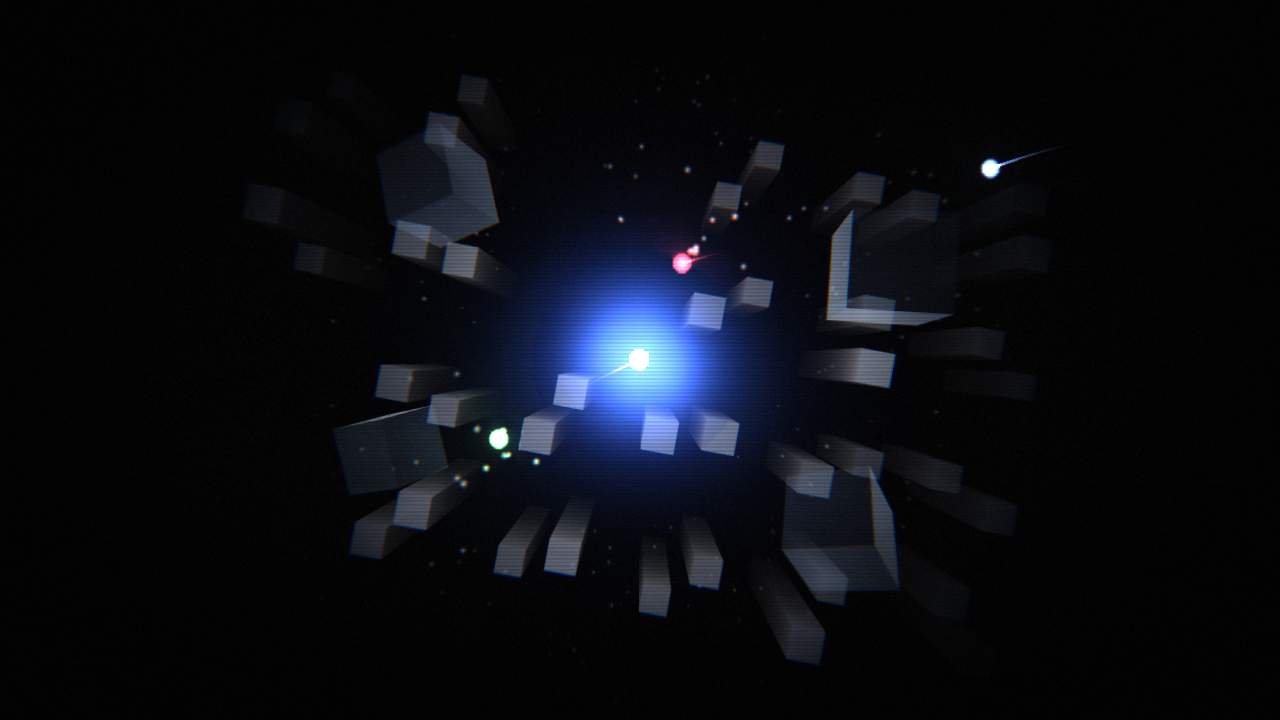
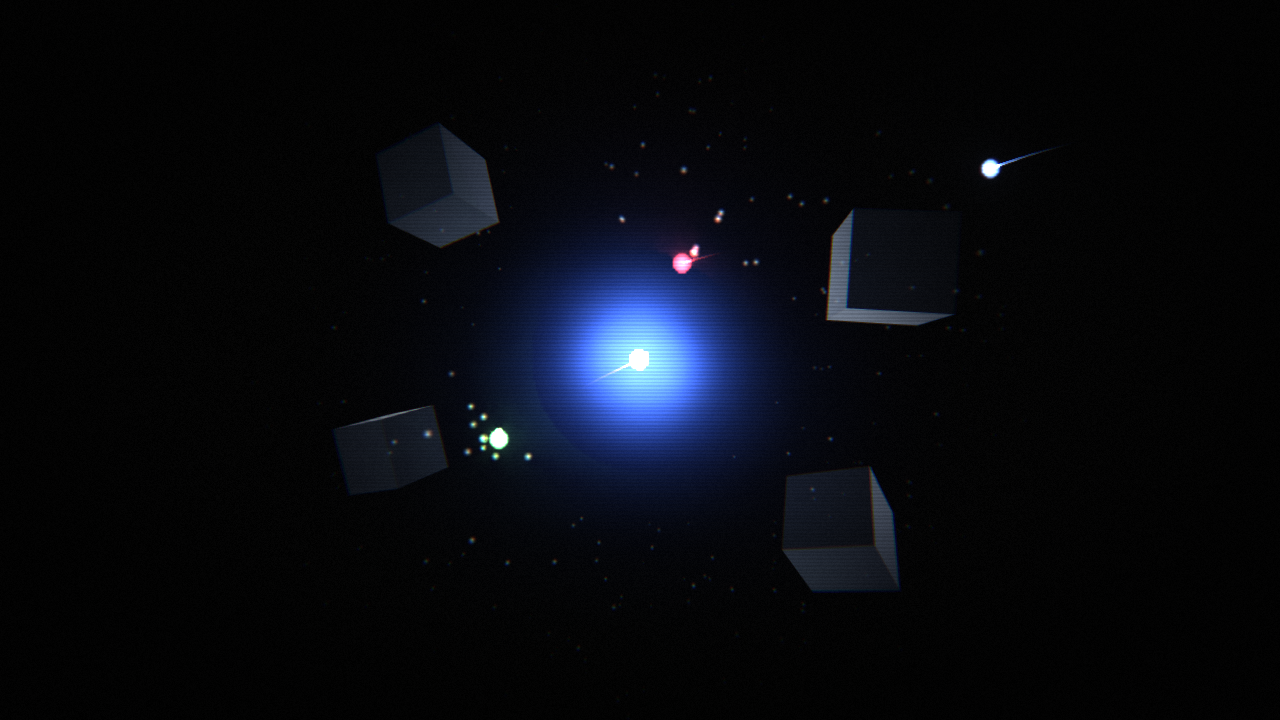
refactor(docs): remove boot-void floor bars

diff --git a/apps/docs/lib/examples-source.generated.ts b/apps/docs/lib/examples-source.generated.ts
@@ -1760,7 +1760,7 @@ export const exampleSources = {
       {
         "path": "pipeline.ts",
         "language": "typescript",
-        "content": "import {\n  bundle,\n  draw,\n  effect,\n  geometry,\n  sampler,\n  target,\n  type Bundle,\n  type Frame,\n  type Gpu,\n  type Surface,\n  type Target,\n} from 'vgpu';\nimport { box } from 'vgpu/scene';\n\nimport atmosphereWgsl from './atmosphere.wgsl';\nimport {\n  encodeRadiance,\n  setRadianceScene,\n  setRadianceTime,\n  type Radiance,\n} from './radiance';\nimport blurWgsl from './blur.wgsl';\nimport brightWgsl from './bright.wgsl';\nimport fieldWgsl from './field.wgsl';\nimport glassWgsl from './glass.wgsl';\nimport nebulaWgsl from './nebula.wgsl';\nimport postWgsl from './post.wgsl';\nimport starsWgsl from './stars.wgsl';\nimport trailsWgsl from './trails.wgsl';\n\ntype Output = Surface | Target;\n\nconst CLEAR = [0, 0, 0, 1] as const;\nconst SCENE_FORMAT = 'rgba16float' as const;\n// 6×4 cluster cells, two bars per cell. The layout lives in field.wgsl.\nexport const BAR_INSTANCES = 48;\nexport const GLASS_INSTANCES = 4;\n// 4 trails × (21 segments + 1 head halo).\nexport const TRAIL_INSTANCES = 88;\nexport const DUST_COUNT = 224;\n\nconst BLURS = [\n  { direction: [1, 0], radius: 1 },\n  { direction: [0, 1], radius: 1 },\n  { direction: [1, 0], radius: 2.4 },\n  { direction: [0, 1], radius: 2.4 },\n] as const;\n\nexport function createEffects(gpu: Gpu) {\n  const samp = sampler(gpu, { minFilter: 'linear', magFilter: 'linear' });\n  const cube = geometry(gpu, box({ size: 1 }));\n  const additive = {\n    color: { src: 'src-alpha', dst: 'one' },\n    alpha: { src: 'one', dst: 'one' },\n  } as const;\n  return {\n    nebula: effect(gpu, nebulaWgsl),\n    stars: draw(gpu, {\n      shader: starsWgsl,\n      vertices: 6,\n      instances: DUST_COUNT,\n      blend: additive,\n      label: 'boot-void-stars',\n    }),\n    // Alpha-blended painter's-order 3D: the source relied on draw order, so a\n    // depth buffer would change the look rather than preserve it.\n    bars: draw(gpu, {\n      shader: fieldWgsl,\n      geometry: cube,\n      instances: BAR_INSTANCES,\n      blend: 'alpha',\n      cull: 'back',\n      frontFace: 'cw',\n      label: 'boot-void-bars',\n    }),\n    glass: draw(gpu, {\n      shader: glassWgsl,\n      geometry: cube,\n      instances: GLASS_INSTANCES,\n      blend: 'alpha',\n      cull: 'back',\n      frontFace: 'cw',\n      label: 'boot-void-glass',\n    }),\n    atmosphere: effect(gpu, atmosphereWgsl, { set: { samp } }),\n    trails: draw(gpu, {\n      shader: trailsWgsl,\n      vertices: 6,\n      instances: TRAIL_INSTANCES,\n      blend: additive,\n      label: 'boot-void-trails',\n    }),\n    bright: effect(gpu, brightWgsl, { set: { samp } }),\n    blur: BLURS.map((options) => effect(gpu, blurWgsl, { set: { samp, blur: options } })),\n    post: effect(gpu, postWgsl, { set: { samp, params: { pointer: [0, 0] } } }),\n  };\n}\n\nexport type Effects = ReturnType<typeof createEffects>;\n\nexport function createTargets(gpu: Gpu, size: readonly [number, number]) {\n  const owned: Target[] = [];\n  const own = (created: Target) => {\n    owned.push(created);\n    return created;\n  };\n  try {\n    const bloomHeight = Math.min(360, size[1]);\n    const bloomSize: [number, number] = [\n      Math.max(1, Math.round((bloomHeight * size[0]) / size[1])),\n      bloomHeight,\n    ];\n    return {\n      // 4× MSAA: passes resolve into a sampleable single-sample color.\n      scene: own(target(gpu, { size, format: SCENE_FORMAT, msaa: true })),\n      composite: own(target(gpu, { size, format: SCENE_FORMAT })),\n      bloom: [\n        own(target(gpu, { size: bloomSize, format: SCENE_FORMAT })),\n        own(target(gpu, { size: bloomSize, format: SCENE_FORMAT })),\n      ] as const,\n    };\n  } catch (error) {\n    for (const created of owned.reverse()) destroy(created);\n    throw error;\n  }\n}\n\nexport type Targets = ReturnType<typeof createTargets>;\n\nexport function destroyTargets(targets: Targets): void {\n  destroy(targets.bloom[1]);\n  destroy(targets.bloom[0]);\n  destroy(targets.composite);\n  destroy(targets.scene);\n}\n\nfunction destroy(color: Target | undefined): void {\n  (color as { destroy?: () => void } | undefined)?.destroy?.();\n}\n\nexport function setBindings(effects: Effects, targets: Targets, radiance: Radiance): void {\n  const aspect = targets.scene.size[0] / targets.scene.size[1];\n  effects.nebula.set({ params: { aspect } });\n  effects.stars.set({ params: { aspect } });\n  effects.bars.set({ params: { aspect } });\n  effects.glass.set({ params: { aspect } });\n  effects.atmosphere.set({ src: targets.scene, params: { aspect } });\n  effects.trails.set({ params: { aspect } });\n  effects.bright.set({ src: targets.composite });\n  effects.blur.forEach((pass, i) =>\n    pass.set({\n      src: targets.bloom[i % 2],\n      blur: { texelSize: targets.bloom[i % 2].texelSize },\n    }),\n  );\n  effects.post.set({\n    src: targets.composite,\n    bloom: targets.bloom[0],\n    radiance: radiance.irradiance,\n    params: { aspect },\n  });\n  setRadianceScene(radiance, targets.scene);\n}\n\nexport function setTime(effects: Effects, radiance: Radiance, time: number): void {\n  const params = { params: { time } };\n  effects.nebula.set(params);\n  effects.stars.set(params);\n  effects.bars.set(params);\n  effects.glass.set(params);\n  effects.atmosphere.set(params);\n  effects.trails.set(params);\n  effects.post.set(params);\n  setRadianceTime(radiance, time);\n}\n\nexport function setPointer(effects: Effects, pointer: readonly [number, number]): void {\n  effects.post.set({ params: { pointer } });\n}\n\nexport async function prewarm(effects: Effects, targets: Targets, output: Output): Promise<void> {\n  await Promise.all([\n    effects.nebula.compile(targets.scene),\n    effects.stars.compile(targets.scene),\n    effects.bars.compile(targets.scene),\n    effects.glass.compile(targets.scene),\n    effects.atmosphere.compile(targets.composite),\n    effects.trails.compile(targets.composite),\n    effects.bright.compile(targets.bloom[0]),\n    ...effects.blur.map((pass, i) => pass.compile(targets.bloom[(i + 1) % 2])),\n    effects.post.compile({ colors: [output.format] }),\n  ]);\n}\n\n// Bundles freeze the render signature, not the target, so they survive resizes.\nexport function recordScene(gpu: Gpu, effects: Effects): Bundle {\n  return bundle(\n    gpu,\n    { target: { colors: [SCENE_FORMAT], sampleCount: 4 }, label: 'boot-void-scene' },\n    (pass) => {\n      pass.draw(effects.nebula);\n      pass.draw(effects.stars);\n      pass.draw(effects.bars);\n      pass.draw(effects.glass);\n    },\n  );\n}\n\nexport function renderChain(\n  frame: Frame,\n  effects: Effects,\n  targets: Targets,\n  output: Output,\n  scene: Bundle,\n  radiance: Radiance,\n): void {\n  frame.pass({ target: targets.scene, clear: CLEAR }, (pass) => pass.bundles(scene));\n  encodeRadiance(frame, radiance);\n  frame.pass({ target: targets.composite, clear: CLEAR }, (pass) => {\n    pass.draw(effects.atmosphere);\n    pass.draw(effects.trails);\n  });\n  frame.pass({ target: targets.bloom[0], clear: CLEAR }, (pass) => pass.draw(effects.bright));\n  effects.blur.forEach((pass, i) => {\n    frame.pass({ target: targets.bloom[(i + 1) % 2], clear: CLEAR }, (framePass) =>\n      framePass.draw(pass),\n    );\n  });\n  frame.pass({ target: output, clear: CLEAR }, (pass) => pass.draw(effects.post));\n}\n"
+        "content": "import {\n  bundle,\n  draw,\n  effect,\n  geometry,\n  sampler,\n  target,\n  type Bundle,\n  type Frame,\n  type Gpu,\n  type Surface,\n  type Target,\n} from 'vgpu';\nimport { box } from 'vgpu/scene';\n\nimport atmosphereWgsl from './atmosphere.wgsl';\nimport {\n  encodeRadiance,\n  setRadianceScene,\n  setRadianceTime,\n  type Radiance,\n} from './radiance';\nimport blurWgsl from './blur.wgsl';\nimport brightWgsl from './bright.wgsl';\nimport glassWgsl from './glass.wgsl';\nimport nebulaWgsl from './nebula.wgsl';\nimport postWgsl from './post.wgsl';\nimport starsWgsl from './stars.wgsl';\nimport trailsWgsl from './trails.wgsl';\n\ntype Output = Surface | Target;\n\nconst CLEAR = [0, 0, 0, 1] as const;\nconst SCENE_FORMAT = 'rgba16float' as const;\nexport const GLASS_INSTANCES = 4;\n// 4 trails × (21 segments + 1 head halo).\nexport const TRAIL_INSTANCES = 88;\nexport const DUST_COUNT = 224;\n\nconst BLURS = [\n  { direction: [1, 0], radius: 1 },\n  { direction: [0, 1], radius: 1 },\n  { direction: [1, 0], radius: 2.4 },\n  { direction: [0, 1], radius: 2.4 },\n] as const;\n\nexport function createEffects(gpu: Gpu) {\n  const samp = sampler(gpu, { minFilter: 'linear', magFilter: 'linear' });\n  const cube = geometry(gpu, box({ size: 1 }));\n  const additive = {\n    color: { src: 'src-alpha', dst: 'one' },\n    alpha: { src: 'one', dst: 'one' },\n  } as const;\n  return {\n    nebula: effect(gpu, nebulaWgsl),\n    stars: draw(gpu, {\n      shader: starsWgsl,\n      vertices: 6,\n      instances: DUST_COUNT,\n      blend: additive,\n      label: 'boot-void-stars',\n    }),\n    glass: draw(gpu, {\n      shader: glassWgsl,\n      geometry: cube,\n      instances: GLASS_INSTANCES,\n      blend: 'alpha',\n      cull: 'back',\n      frontFace: 'cw',\n      label: 'boot-void-glass',\n    }),\n    atmosphere: effect(gpu, atmosphereWgsl, { set: { samp } }),\n    trails: draw(gpu, {\n      shader: trailsWgsl,\n      vertices: 6,\n      instances: TRAIL_INSTANCES,\n      blend: additive,\n      label: 'boot-void-trails',\n    }),\n    bright: effect(gpu, brightWgsl, { set: { samp } }),\n    blur: BLURS.map((options) => effect(gpu, blurWgsl, { set: { samp, blur: options } })),\n    post: effect(gpu, postWgsl, { set: { samp, params: { pointer: [0, 0] } } }),\n  };\n}\n\nexport type Effects = ReturnType<typeof createEffects>;\n\nexport function createTargets(gpu: Gpu, size: readonly [number, number]) {\n  const owned: Target[] = [];\n  const own = (created: Target) => {\n    owned.push(created);\n    return created;\n  };\n  try {\n    const bloomHeight = Math.min(360, size[1]);\n    const bloomSize: [number, number] = [\n      Math.max(1, Math.round((bloomHeight * size[0]) / size[1])),\n      bloomHeight,\n    ];\n    return {\n      // 4× MSAA: passes resolve into a sampleable single-sample color.\n      scene: own(target(gpu, { size, format: SCENE_FORMAT, msaa: true })),\n      composite: own(target(gpu, { size, format: SCENE_FORMAT })),\n      bloom: [\n        own(target(gpu, { size: bloomSize, format: SCENE_FORMAT })),\n        own(target(gpu, { size: bloomSize, format: SCENE_FORMAT })),\n      ] as const,\n    };\n  } catch (error) {\n    for (const created of owned.reverse()) destroy(created);\n    throw error;\n  }\n}\n\nexport type Targets = ReturnType<typeof createTargets>;\n\nexport function destroyTargets(targets: Targets): void {\n  destroy(targets.bloom[1]);\n  destroy(targets.bloom[0]);\n  destroy(targets.composite);\n  destroy(targets.scene);\n}\n\nfunction destroy(color: Target | undefined): void {\n  (color as { destroy?: () => void } | undefined)?.destroy?.();\n}\n\nexport function setBindings(effects: Effects, targets: Targets, radiance: Radiance): void {\n  const aspect = targets.scene.size[0] / targets.scene.size[1];\n  effects.nebula.set({ params: { aspect } });\n  effects.stars.set({ params: { aspect } });\n  effects.glass.set({ params: { aspect } });\n  effects.atmosphere.set({ src: targets.scene, params: { aspect } });\n  effects.trails.set({ params: { aspect } });\n  effects.bright.set({ src: targets.composite });\n  effects.blur.forEach((pass, i) =>\n    pass.set({\n      src: targets.bloom[i % 2],\n      blur: { texelSize: targets.bloom[i % 2].texelSize },\n    }),\n  );\n  effects.post.set({\n    src: targets.composite,\n    bloom: targets.bloom[0],\n    radiance: radiance.irradiance,\n    params: { aspect },\n  });\n  setRadianceScene(radiance, targets.scene);\n}\n\nexport function setTime(effects: Effects, radiance: Radiance, time: number): void {\n  const params = { params: { time } };\n  effects.nebula.set(params);\n  effects.stars.set(params);\n  effects.glass.set(params);\n  effects.atmosphere.set(params);\n  effects.trails.set(params);\n  effects.post.set(params);\n  setRadianceTime(radiance, time);\n}\n\nexport function setPointer(effects: Effects, pointer: readonly [number, number]): void {\n  effects.post.set({ params: { pointer } });\n}\n\nexport async function prewarm(effects: Effects, targets: Targets, output: Output): Promise<void> {\n  await Promise.all([\n    effects.nebula.compile(targets.scene),\n    effects.stars.compile(targets.scene),\n    effects.glass.compile(targets.scene),\n    effects.atmosphere.compile(targets.composite),\n    effects.trails.compile(targets.composite),\n    effects.bright.compile(targets.bloom[0]),\n    ...effects.blur.map((pass, i) => pass.compile(targets.bloom[(i + 1) % 2])),\n    effects.post.compile({ colors: [output.format] }),\n  ]);\n}\n\n// Bundles freeze the render signature, not the target, so they survive resizes.\nexport function recordScene(gpu: Gpu, effects: Effects): Bundle {\n  return bundle(\n    gpu,\n    { target: { colors: [SCENE_FORMAT], sampleCount: 4 }, label: 'boot-void-scene' },\n    (pass) => {\n      pass.draw(effects.nebula);\n      pass.draw(effects.stars);\n      pass.draw(effects.glass);\n    },\n  );\n}\n\nexport function renderChain(\n  frame: Frame,\n  effects: Effects,\n  targets: Targets,\n  output: Output,\n  scene: Bundle,\n  radiance: Radiance,\n): void {\n  frame.pass({ target: targets.scene, clear: CLEAR }, (pass) => pass.bundles(scene));\n  encodeRadiance(frame, radiance);\n  frame.pass({ target: targets.composite, clear: CLEAR }, (pass) => {\n    pass.draw(effects.atmosphere);\n    pass.draw(effects.trails);\n  });\n  frame.pass({ target: targets.bloom[0], clear: CLEAR }, (pass) => pass.draw(effects.bright));\n  effects.blur.forEach((pass, i) => {\n    frame.pass({ target: targets.bloom[(i + 1) % 2], clear: CLEAR }, (framePass) =>\n      framePass.draw(pass),\n    );\n  });\n  frame.pass({ target: output, clear: CLEAR }, (pass) => pass.draw(effects.post));\n}\n"
       },
       {
         "path": "dust.ts",
@@ -1781,11 +1781,6 @@ export const exampleSources = {
         "path": "stars.wgsl",
         "language": "wgsl",
         "content": "// Motes from whichever particle buffer the active mode binds; the struct\n// matches the 48-byte layout both sims write.\nstruct Particle {\n  position: vec2f,\n  velocity: vec2f,\n  seed: f32,\n  energy: f32,\n  tint: vec3f,\n}\n\nstruct Params {\n  time: f32,\n  aspect: f32,\n}\n@group(0) @binding(0) var<uniform> params: Params;\n@group(0) @binding(1) var<storage, read> particles: array<Particle>;\n\nconst HALF_HEIGHT_PX = 240.0;\n\nstruct VertexOut {\n  @builtin(position) position: vec4f,\n  @location(0) local: vec2f,\n  @location(1) alpha: f32,\n  @location(2) heat: f32,\n  @location(3) tint: vec3f,\n}\n\n@vertex fn vs_main(\n  @builtin(vertex_index) vertex: u32,\n  @builtin(instance_index) instance: u32,\n) -> VertexOut {\n  var quad = array<vec2f, 6>(\n    vec2f(-1.0, -1.0), vec2f(1.0, -1.0), vec2f(-1.0, 1.0),\n    vec2f(-1.0, 1.0), vec2f(1.0, -1.0), vec2f(1.0, 1.0),\n  );\n  let corner = quad[vertex];\n  let mote = particles[instance];\n\n  let radius = 0.7 + mote.seed * 1.4 + mote.energy * 2.2;\n  let twinkle = 0.35 + 0.65 * (0.5 + 0.5 * sin(params.time * (0.8 + mote.seed * 2.2) + f32(instance)));\n\n  let px = mote.position + corner * radius;\n  var out: VertexOut;\n  out.position = vec4f(px.x / (HALF_HEIGHT_PX * params.aspect), px.y / HALF_HEIGHT_PX, 0.0, 1.0);\n  out.local = corner;\n  out.alpha = twinkle * mix(0.2, 0.6, mote.seed) + mote.energy * 0.5;\n  out.heat = mote.energy;\n  out.tint = mote.tint;\n  return out;\n}\n\n@fragment fn fs_main(\n  @location(0) local: vec2f,\n  @location(1) alpha: f32,\n  @location(2) heat: f32,\n  @location(3) tint: vec3f,\n) -> @location(0) vec4f {\n  let falloff = max(0.0, 1.0 - length(local));\n  // Excited motes flare white; the rest glow with the light they soaked up.\n  var color = mix(vec3f(0.75, 0.83, 1.0), vec3f(1.0, 0.98, 0.92), heat);\n  color += tint * 1.6;\n  return vec4f(color, alpha * falloff * falloff);\n}\n"
-      },
-      {
-        "path": "field.wgsl",
-        "language": "wgsl",
-        "content": "// Boot-field bars. Every bar derives its cluster slot, jitter, and dimensions\n// from instance_index alone: no CPU layout pass, no instance buffers.\nstruct Params {\n  time: f32,\n  aspect: f32,\n}\n@group(0) @binding(0) var<uniform> params: Params;\n\nconst CCOLS = 6u;\nconst CROWS = 4u;\nconst X_RANGE = 9.0;\nconst Y_RANGE = 5.8;\nconst CLUSTER_SKIP = 0.05;\nconst ANCHOR_JITTER = 0.14;\nconst STRIDE_MIN = 0.55;\nconst STRIDE_MAX = 0.63;\nconst Z_LEVEL = 6.5;\nconst FACE_MIN = 0.13;\nconst FACE_MAX = 0.18;\nconst STRETCH_MIN = 4.0;\nconst STRETCH_MAX = 6.0;\nconst FOG_START = 5.4;\nconst FOG_DENSITY = 1.6;\n// rad/s, one full camera roll every ~105 s.\nconst CAMERA_SPIN = 0.06;\n// cot(fov/2): the 360px focal length of the source's 480px frame.\nconst FOCAL = 1.5;\n\nfn pcg(seed: u32) -> u32 {\n  var state = seed * 747796405u + 2891336453u;\n  let word = ((state >> ((state >> 28u) + 4u)) ^ state) * 277803737u;\n  return (word >> 22u) ^ word;\n}\n\nfn hash01(seed: u32) -> f32 {\n  return f32(pcg(seed)) * (1.0 / 4294967295.0);\n}\n\nfn roll(p: vec2f, angle: f32) -> vec2f {\n  let c = cos(angle);\n  let s = sin(angle);\n  return vec2f(p.x * c - p.y * s, p.x * s + p.y * c);\n}\n\nstruct VertexOut {\n  @builtin(position) position: vec4f,\n  @location(0) normal: vec3f,\n  @location(1) depth: f32,\n}\n\n@vertex fn vs_main(\n  @location(0) position: vec3f,\n  @location(1) normal: vec3f,\n  @builtin(instance_index) instance: u32,\n) -> VertexOut {\n  // Two bars per cluster cell share an anchor, a line angle, and a stride.\n  let cell = instance / 2u;\n  let bar = instance % 2u;\n  let seed = cell * 16u;\n  let col = f32(cell % CCOLS);\n  let row = f32(cell / CCOLS);\n\n  let cellW = X_RANGE / f32(CCOLS);\n  let cellH = Y_RANGE / f32(CROWS);\n  let anchor = vec2f(\n    -X_RANGE * 0.5 + (col + 0.5) * cellW + (hash01(seed + 1u) - 0.5) * cellW * ANCHOR_JITTER,\n    -Y_RANGE * 0.5 + (row + 0.5) * cellH + (hash01(seed + 2u) - 0.5) * cellH * ANCHOR_JITTER,\n  );\n  let lineAngle = hash01(seed + 3u) * 6.2831853;\n  let stride = mix(STRIDE_MIN, STRIDE_MAX, hash01(seed + 4u));\n  let offset = (f32(bar) - 0.5) * stride;\n\n  let face = mix(FACE_MIN, FACE_MAX, hash01(seed + 8u + bar * 2u));\n  let stretch = face * mix(STRETCH_MIN, STRETCH_MAX, hash01(seed + 9u + bar * 2u));\n  // A skipped cluster collapses to a degenerate (invisible) pair.\n  let alive = step(CLUSTER_SKIP, hash01(seed));\n  // Boot assembly: each bar grows in on its own staggered schedule.\n  let ignition = 0.4 + hash01(seed + 12u + bar) * 1.4;\n  let grown = smoothstep(ignition, ignition + 0.7, params.time);\n  let halfExtent = vec3f(face, face, stretch) * alive * grown;\n\n  let center = anchor + vec2f(cos(lineAngle), sin(lineAngle)) * offset;\n  let world = vec3f(center, Z_LEVEL) + position * 2.0 * halfExtent;\n\n  let angle = -params.time * CAMERA_SPIN;\n  let view = roll(world.xy, angle);\n  var out: VertexOut;\n  out.position = vec4f(view.x * FOCAL / params.aspect, view.y * FOCAL, 0.0, world.z);\n  out.normal = vec3f(roll(normal.xy, angle), normal.z);\n  out.depth = world.z;\n  return out;\n}\n\n@fragment fn fs_main(\n  @location(0) normal: vec3f,\n  @location(1) depth: f32,\n) -> @location(0) vec4f {\n  let alpha = exp(-FOG_DENSITY * max(0.0, depth - FOG_START));\n  let light = normalize(vec3f(-0.4, 0.7, -0.6));\n  let lit = max(dot(normalize(normal), light), 0.0);\n  let color = vec3f(0.83, 0.86, 0.93) * (0.32 + 0.68 * lit);\n  return vec4f(color, alpha);\n}\n"
       },
       {
         "path": "glass.wgsl",

diff --git a/apps/docs/examples/boot-void/pipeline.ts b/apps/docs/examples/boot-void/pipeline.ts
@@ -22,7 +22,6 @@ import {
 } from './radiance';
 import blurWgsl from './blur.wgsl';
 import brightWgsl from './bright.wgsl';
-import fieldWgsl from './field.wgsl';
 import glassWgsl from './glass.wgsl';
 import nebulaWgsl from './nebula.wgsl';
 import postWgsl from './post.wgsl';
@@ -33,8 +32,6 @@ type Output = Surface | Target;
 
 const CLEAR = [0, 0, 0, 1] as const;
 const SCENE_FORMAT = 'rgba16float' as const;
-// 6×4 cluster cells, two bars per cell. The layout lives in field.wgsl.
-export const BAR_INSTANCES = 48;
 export const GLASS_INSTANCES = 4;
 // 4 trails × (21 segments + 1 head halo).
 export const TRAIL_INSTANCES = 88;
@@ -62,17 +59,6 @@ export function createEffects(gpu: Gpu) {
       instances: DUST_COUNT,
       blend: additive,
       label: 'boot-void-stars',
-    }),
-    // Alpha-blended painter's-order 3D: the source relied on draw order, so a
-    // depth buffer would change the look rather than preserve it.
-    bars: draw(gpu, {
-      shader: fieldWgsl,
-      geometry: cube,
-      instances: BAR_INSTANCES,
-      blend: 'alpha',
-      cull: 'back',
-      frontFace: 'cw',
-      label: 'boot-void-bars',
     }),
     glass: draw(gpu, {
       shader: glassWgsl,
@@ -143,7 +129,6 @@ export function setBindings(effects: Effects, targets: Targets, radiance: Radian
   const aspect = targets.scene.size[0] / targets.scene.size[1];
   effects.nebula.set({ params: { aspect } });
   effects.stars.set({ params: { aspect } });
-  effects.bars.set({ params: { aspect } });
   effects.glass.set({ params: { aspect } });
   effects.atmosphere.set({ src: targets.scene, params: { aspect } });
   effects.trails.set({ params: { aspect } });
@@ -167,7 +152,6 @@ export function setTime(effects: Effects, radiance: Radiance, time: number): voi
   const params = { params: { time } };
   effects.nebula.set(params);
   effects.stars.set(params);
-  effects.bars.set(params);
   effects.glass.set(params);
   effects.atmosphere.set(params);
   effects.trails.set(params);
@@ -183,7 +167,6 @@ export async function prewarm(effects: Effects, targets: Targets, output: Output
   await Promise.all([
     effects.nebula.compile(targets.scene),
     effects.stars.compile(targets.scene),
-    effects.bars.compile(targets.scene),
     effects.glass.compile(targets.scene),
     effects.atmosphere.compile(targets.composite),
     effects.trails.compile(targets.composite),
@@ -201,7 +184,6 @@ export function recordScene(gpu: Gpu, effects: Effects): Bundle {
     (pass) => {
       pass.draw(effects.nebula);
       pass.draw(effects.stars);
-      pass.draw(effects.bars);
       pass.draw(effects.glass);
     },
   );

diff --git a/apps/docs/examples/boot-void/renderer.test.ts b/apps/docs/examples/boot-void/renderer.test.ts
@@ -208,11 +208,11 @@ test('builds the pipeline, records the scene bundle, drives time, and coalesces 
   expect(env.gpu.fns.frameLoop).toHaveBeenCalledOnce();
   // nebula, atmosphere, bright, 4× blur, post, plus the radiance chain.
   expect(env.gpu.fns.effect).toHaveBeenCalledTimes(8 + radianceEffectCount([200, 100]));
-  // stars, bars, glass, trails.
-  expect(env.gpu.fns.draw).toHaveBeenCalledTimes(4);
+  // stars, glass, trails.
+  expect(env.gpu.fns.draw).toHaveBeenCalledTimes(3);
   expect(env.gpu.fns.geometry).toHaveBeenCalledOnce();
   expect(env.gpu.fns.bundle).toHaveBeenCalledOnce();
-  expect(env.bundleRecorder.draw).toHaveBeenCalledTimes(4);
+  expect(env.bundleRecorder.draw).toHaveBeenCalledTimes(3);
   expect(env.canvasListeners.has('pointermove')).toBe(true);
   // TypeGPU shares the device; its particle buffer is wrapped zero-copy.
   expect(dustMocks.create).toHaveBeenCalledWith(env.gpu.gpu);

diff --git a/apps/docs/examples/boot-void/meta.ts b/apps/docs/examples/boot-void/meta.ts
@@ -40,7 +40,6 @@ export const meta = {
     'radiance.ts',
     'nebula.wgsl',
     'stars.wgsl',
-    'field.wgsl',
     'glass.wgsl',
     'atmosphere.wgsl',
     'trails.wgsl',
